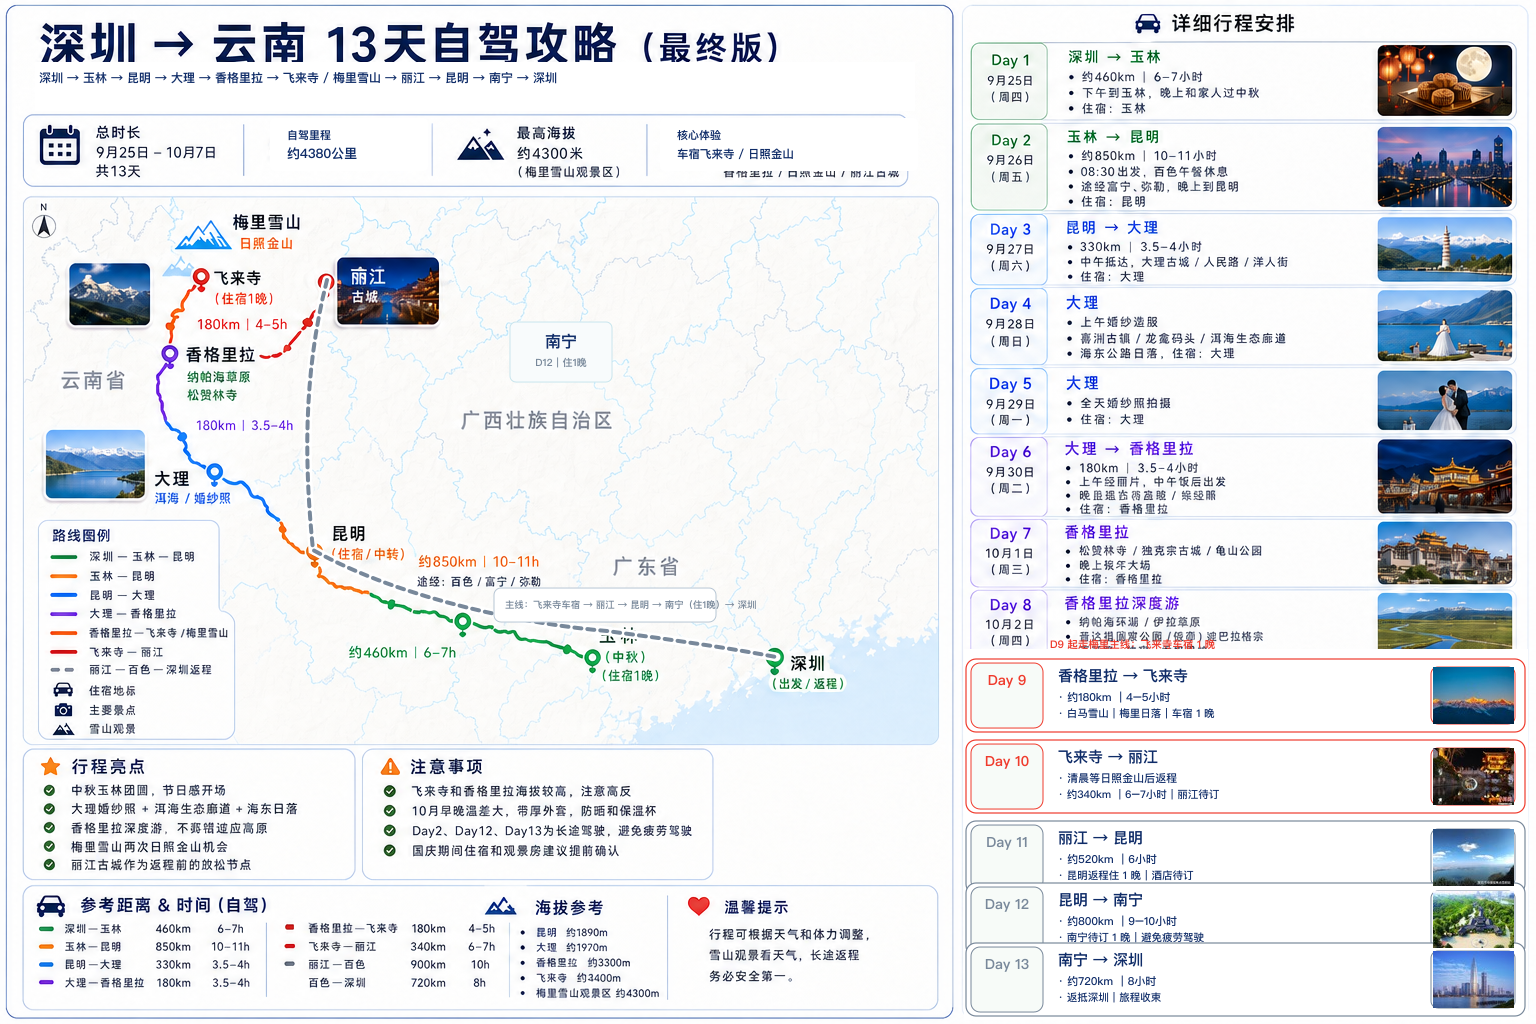
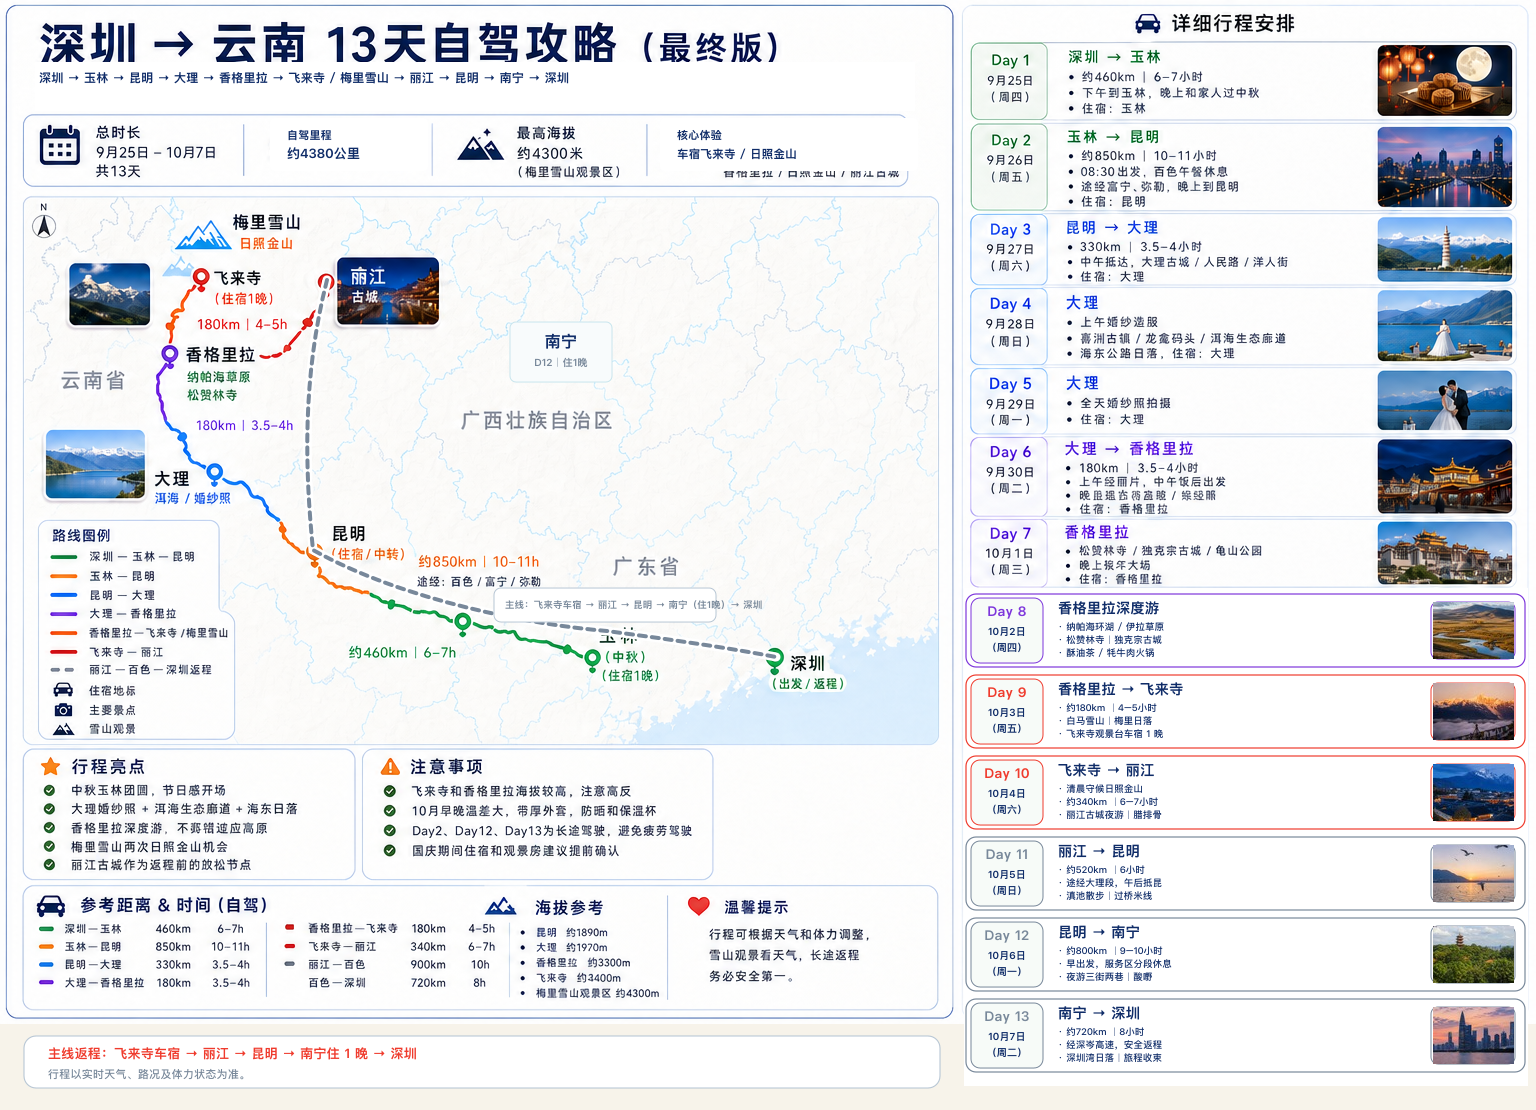
feat: refresh return itinerary imagery

diff --git a/src/components/sections/RoadbookDownloadSection.tsx b/src/components/sections/RoadbookDownloadSection.tsx
@@ -29,7 +29,7 @@ export default function RoadbookDownloadSection() {
       </motion.div>
       <div className="mx-auto mt-10 grid max-w-6xl gap-8 lg:grid-cols-2">
         {downloads.map((item, index) => <motion.figure key={item.key} initial={{ opacity: 0, y: 20 }} whileInView={{ opacity: 1, y: 0 }} viewport={{ once: true, amount: 0.1 }} transition={{ duration: 0.5, delay: index * 0.08 }} className="overflow-hidden rounded-2xl border border-[#102033]/10 bg-white p-2 shadow-[0_18px_45px_rgba(16,32,51,0.08)] sm:p-3">
-          <button type="button" onClick={() => setPreview(item)} className="group block w-full cursor-zoom-in text-left focus-visible:outline focus-visible:outline-2 focus-visible:outline-offset-4 focus-visible:outline-[#C66A2B]" aria-label={`放大查看${item.title}图片版攻略`}><div className="relative aspect-[1.5] overflow-hidden rounded-xl bg-[#EDF3F8]"><Image src={item.image} alt={`${item.title}图片版攻略`} fill sizes="(max-width: 1023px) 100vw, 720px" className="object-contain transition-transform duration-500 group-hover:scale-[1.015]" /><span className="absolute right-3 top-3 inline-flex items-center gap-1 rounded-full bg-[#102033]/80 px-2.5 py-1.5 text-[11px] font-medium text-white opacity-0 backdrop-blur transition-opacity group-hover:opacity-100">⌕ 放大查看</span></div></button>
+          <button type="button" onClick={() => setPreview(item)} className="group block w-full cursor-zoom-in text-left focus-visible:outline focus-visible:outline-2 focus-visible:outline-offset-4 focus-visible:outline-[#C66A2B]" aria-label={`放大查看${item.title}图片版攻略`}><div className="relative aspect-[1.384] overflow-hidden rounded-xl bg-[#EDF3F8]"><Image src={item.image} alt={`${item.title}图片版攻略`} fill sizes="(max-width: 1023px) 100vw, 720px" className="object-contain transition-transform duration-500 group-hover:scale-[1.015]" /><span className="absolute right-3 top-3 inline-flex items-center gap-1 rounded-full bg-[#102033]/80 px-2.5 py-1.5 text-[11px] font-medium text-white opacity-0 backdrop-blur transition-opacity group-hover:opacity-100">⌕ 放大查看</span></div></button>
           <figcaption className="flex flex-col gap-3 px-3 pb-2 pt-4 sm:flex-row sm:items-center sm:justify-between"><div><h3 className="text-sm font-semibold text-[#102033]">{item.title}</h3><p className="mt-1 text-[11px] leading-5 text-[#526A59]">{item.description}</p></div><a href={item.image} download={item.filename} className={`inline-flex shrink-0 items-center justify-center gap-1.5 rounded-full px-3 py-2 text-[11px] font-medium ${item.tone === "amber" ? "bg-[#FFF3E6] text-[#A64D18]" : "bg-[#E7EFE8] text-[#466151]"}`}>↓ 下载图片</a></figcaption>
         </motion.figure>)}
       </div>
@@ -37,7 +37,7 @@ export default function RoadbookDownloadSection() {
     {preview && <div className="fixed inset-0 z-[100] flex items-center justify-center bg-[#102033]/80 p-4 backdrop-blur-sm" role="dialog" aria-modal="true" aria-label={`${preview.title}大图预览`} onMouseDown={() => setPreview(null)}>
       <div className="relative flex max-h-[94vh] w-full max-w-7xl flex-col rounded-2xl bg-white p-2 shadow-2xl" onMouseDown={(event) => event.stopPropagation()}>
         <div className="flex items-center justify-between gap-4 px-3 py-2"><p className="text-sm font-semibold text-[#102033]">{preview.title}</p><div className="flex items-center gap-2"><a href={preview.image} download={preview.filename} className="rounded-full bg-[#FFF3E6] px-3 py-1.5 text-xs font-medium text-[#A64D18]">↓ 下载图片</a><button type="button" onClick={() => setPreview(null)} className="rounded-full px-2.5 py-1.5 text-sm text-[#526A59] transition hover:bg-[#F7F3EA]" aria-label="关闭预览">×</button></div></div>
-        <div className="relative min-h-0 flex-1 overflow-auto rounded-xl bg-[#EDF3F8]"><Image src={preview.image} alt={`${preview.title}图片版攻略大图`} width={1536} height={1024} priority className="h-auto w-full min-w-[760px] object-contain" /></div>
+        <div className="relative min-h-0 flex-1 overflow-auto rounded-xl bg-[#EDF3F8]"><Image src={preview.image} alt={`${preview.title}图片版攻略大图`} width={1536} height={1110} priority className="h-auto w-full min-w-[760px] object-contain" /></div>
       </div>
     </div>}
   </section>;
